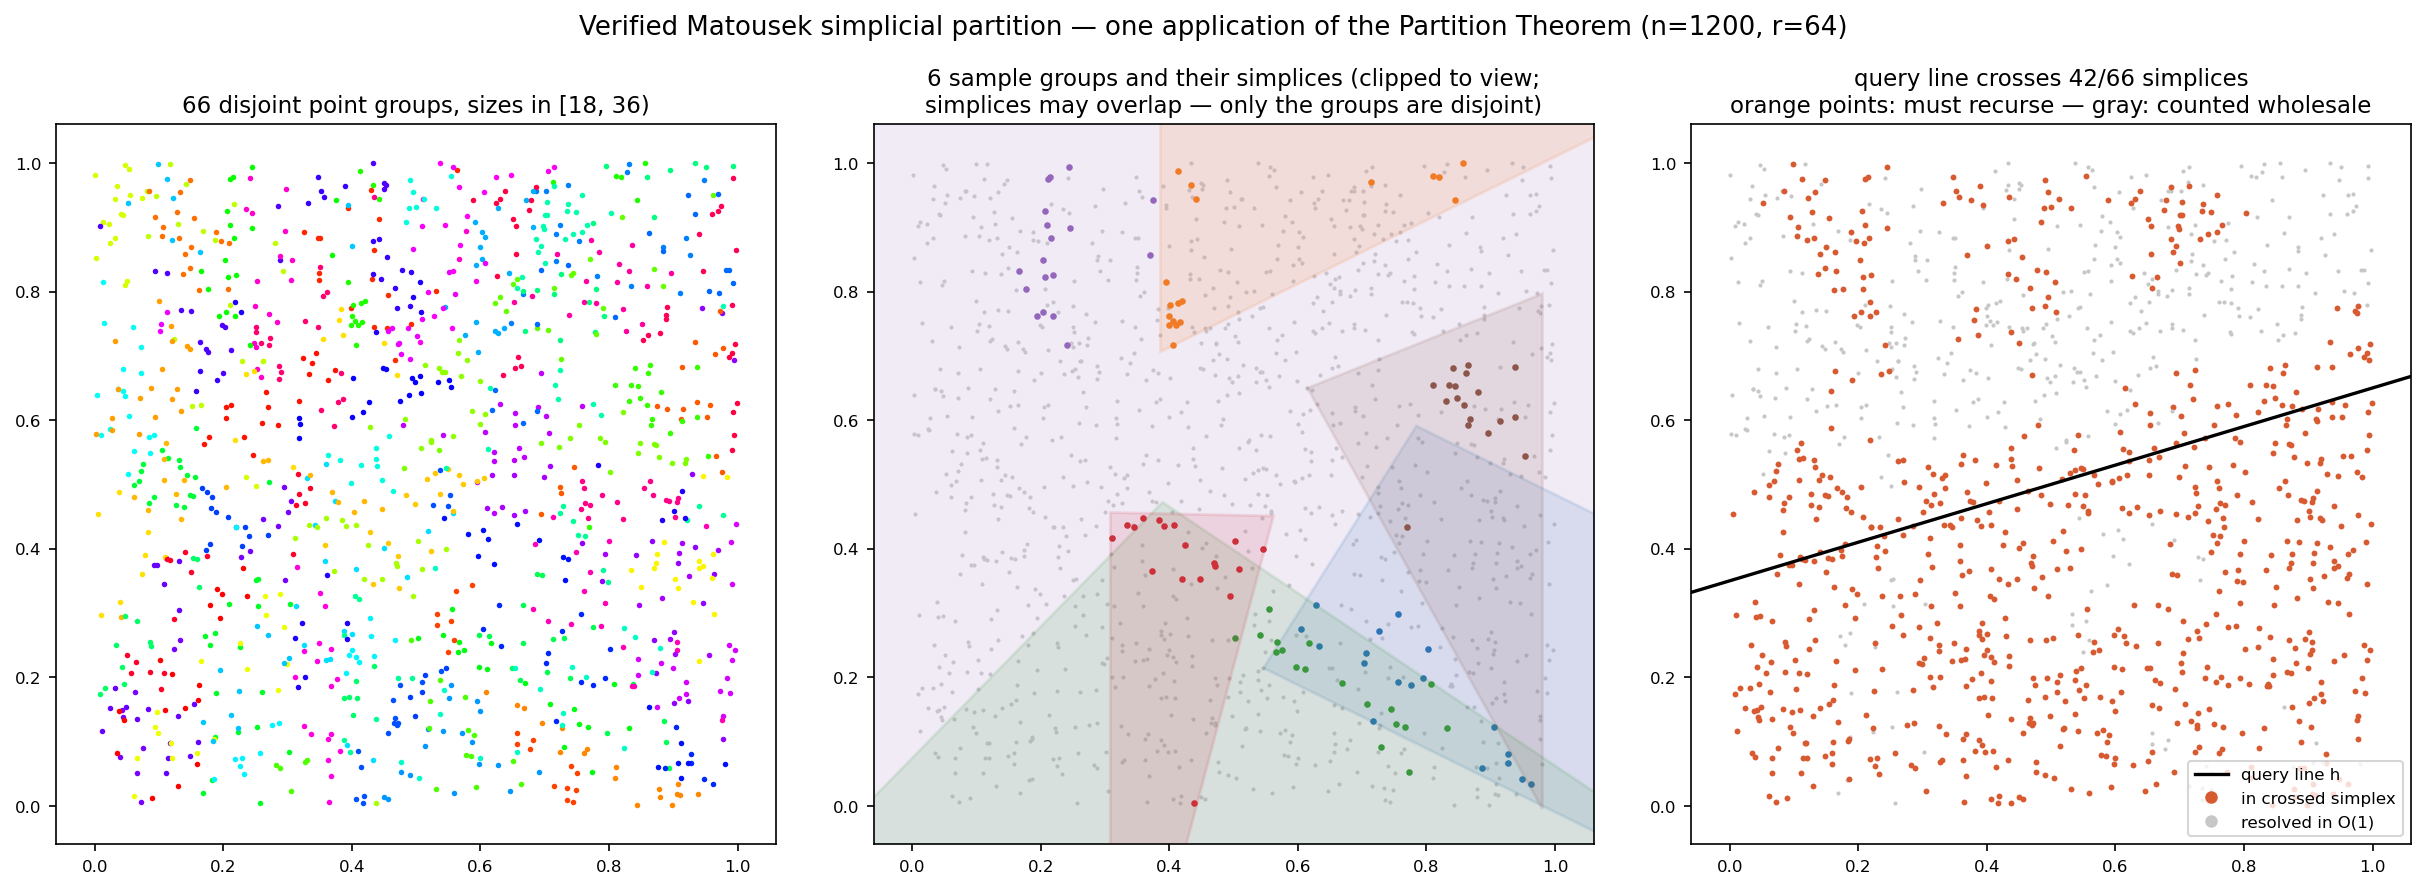
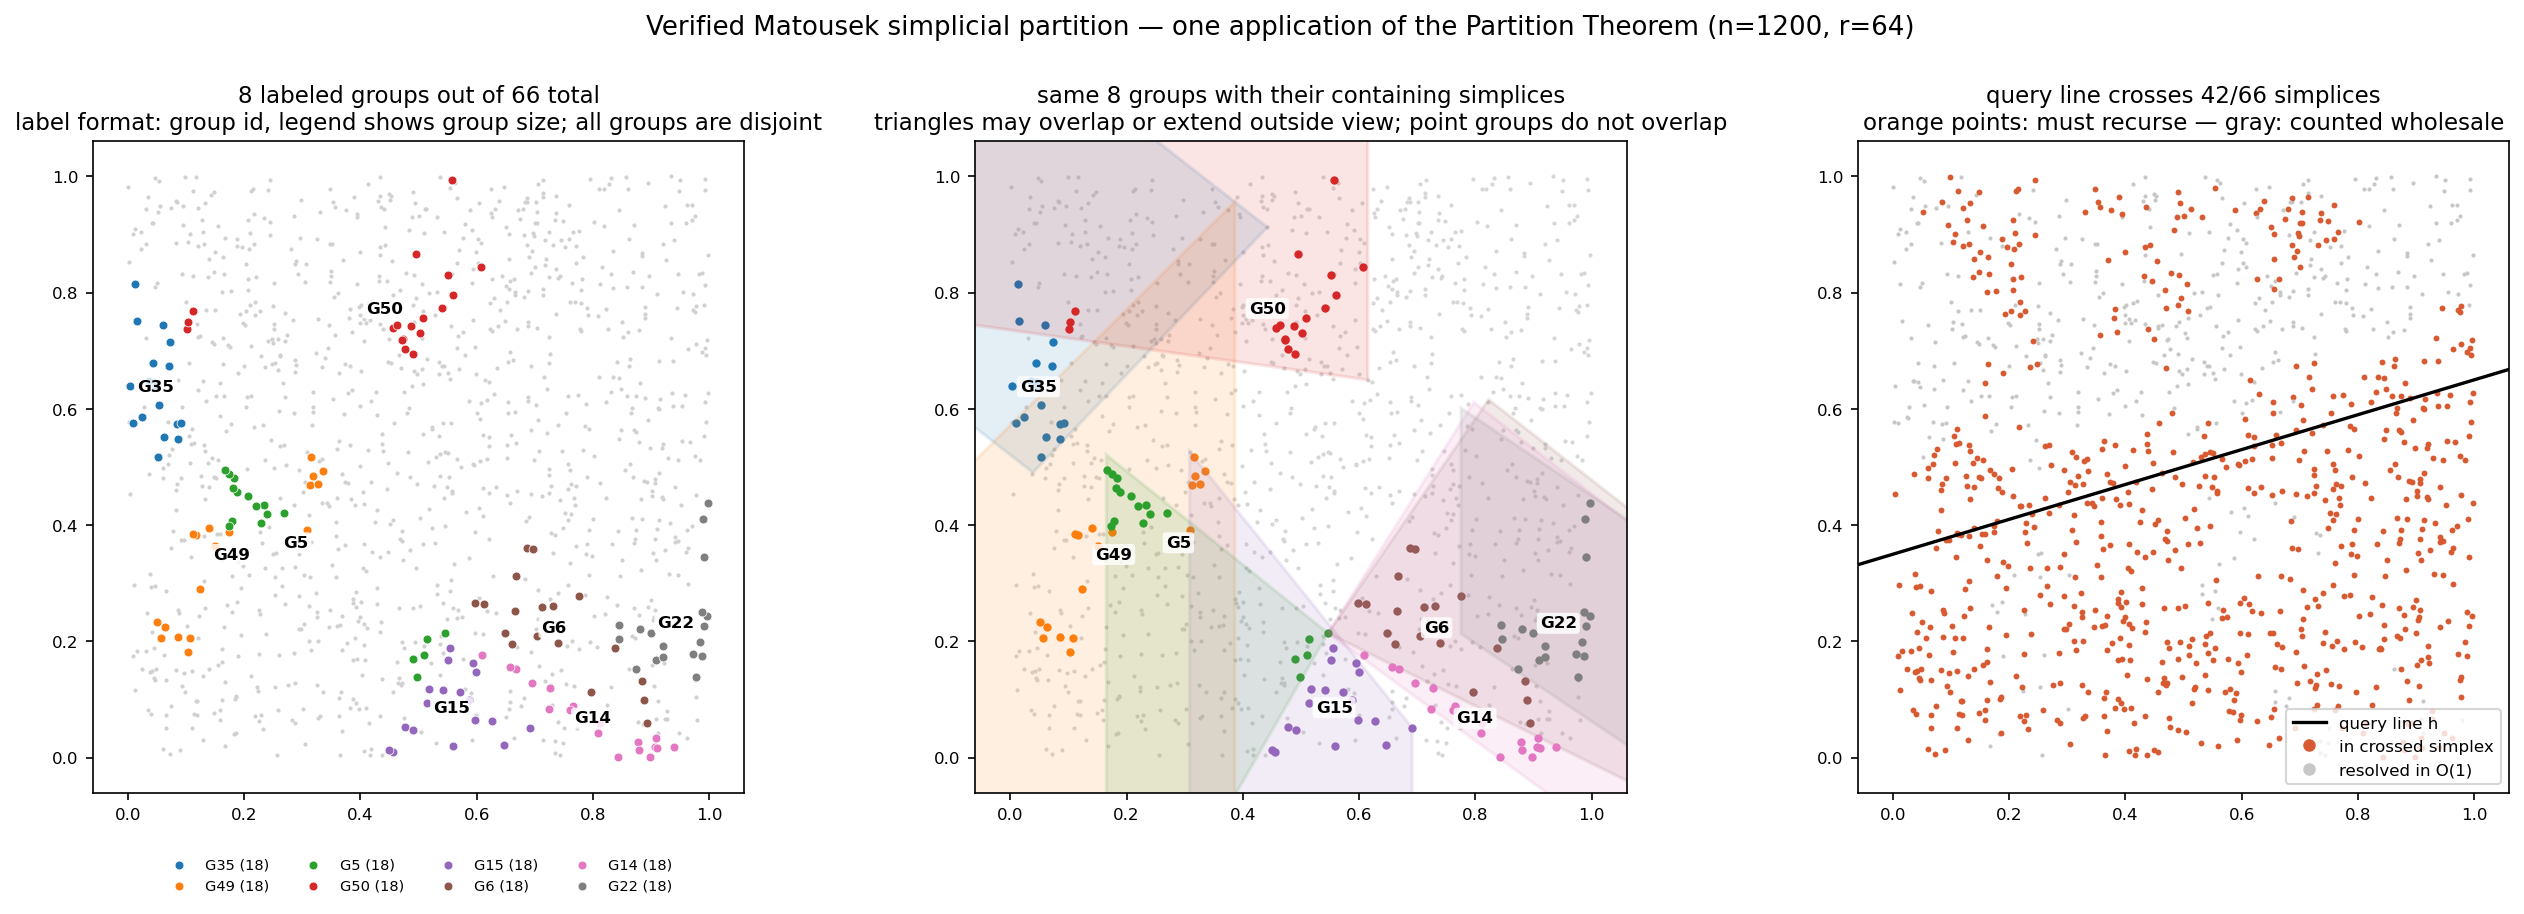
Clarify partition group visualization

diff --git a/src/visualize_matousek.py b/src/visualize_matousek.py
@@ -5,8 +5,8 @@ Reproduces the demo setting: n = 1200 uniform points, r = 64, s = 18
 -> 66 groups with sizes in [18, 36).
 
 Panels:
-  1. all point groups, colored by group membership;
-  2. a few sample groups with their simplices (drawing all 66 is unreadable
+  1. a labeled subset of groups, with all other points muted;
+  2. the same labeled groups with their simplices (drawing all 66 is unreadable
      because the construction's triangles legitimately extend far beyond
      the data and overlap — only the point groups are disjoint);
   3. a query line: points whose simplex the line crosses (must recurse)
@@ -31,6 +31,21 @@ from matplotlib.patches import Polygon as MplPolygon
 from matousek_partition_tree.core import line_crosses_tri, simplicial_partition
 
 
+def centroid(group):
+    return (
+        sum(float(p[0]) for p in group) / len(group),
+        sum(float(p[1]) for p in group) / len(group),
+    )
+
+
+def choose_visible_groups(part, count=8):
+    """Pick groups spread across the x-order so the labels are readable."""
+    ordered = sorted(range(len(part)), key=lambda k: centroid(part[k][0])[0])
+    if count >= len(ordered):
+        return ordered
+    return [ordered[round(i * (len(ordered) - 1) / (count - 1))] for i in range(count)]
+
+
 def main() -> None:
     n = int(sys.argv[1]) if len(sys.argv) > 1 else 1200
     seed = int(sys.argv[2]) if len(sys.argv) > 2 else 42
@@ -47,46 +62,82 @@ def main() -> None:
         f"n={n}, r={R}, s={s}: {len(part)} groups, sizes {sizes[0]}..{sizes[-1]}, K_Q={stats.K_Q}"
     )
 
-    fig, (ax1, ax2, ax3) = plt.subplots(1, 3, figsize=(16.5, 5.8), dpi=150)
+    fig, (ax1, ax2, ax3) = plt.subplots(1, 3, figsize=(17.8, 5.9), dpi=150)
     for ax in (ax1, ax2, ax3):
         ax.set_xlim(-0.06, 1.06)
         ax.set_ylim(-0.06, 1.06)
         ax.set_aspect("equal")
         ax.tick_params(labelsize=8)
 
-    # panel 1: every group in its own color
-    cmap = plt.get_cmap("hsv")
-    order = rng.sample(range(len(part)), len(part))
-    for k, (group, _) in enumerate(part):
-        col = cmap(order[k] / len(part))
-        ax1.scatter(
-            [float(p[0]) for p in group], [float(p[1]) for p in group], s=7, color=col, linewidths=0
-        )
-    ax1.set_title(f"{len(part)} disjoint point groups, sizes in [{s}, {2 * s})", fontsize=11)
-
-    # panel 2: a few sample groups with their simplices
-    show = rng.sample(range(len(part)), 6)
+    # panel 1: selected labeled groups, not 66 indistinguishable colors
+    show = choose_visible_groups(part, 8)
     sample_cmap = plt.get_cmap("tab10")
-    ax2.scatter(
+    ax1.scatter(
         [float(p[0]) for p in pts], [float(p[1]) for p in pts], s=4, color="0.82", linewidths=0
+    )
+    for j, k in enumerate(show):
+        group, _tri = part[k]
+        col = sample_cmap(j)
+        cx, cy = centroid(group)
+        ax1.scatter(
+            [float(p[0]) for p in group],
+            [float(p[1]) for p in group],
+            s=18,
+            color=col,
+            edgecolors="white",
+            linewidths=0.35,
+            label=f"G{k} ({len(group)})",
+        )
+        ax1.text(
+            cx,
+            cy,
+            f"G{k}",
+            fontsize=8,
+            weight="bold",
+            color="black",
+            ha="center",
+            va="center",
+            bbox={"boxstyle": "round,pad=0.18", "facecolor": "white", "alpha": 0.82, "lw": 0},
+        )
+    ax1.set_title(
+        f"8 labeled groups out of {len(part)} total\n"
+        f"label format: group id, legend shows group size; all groups are disjoint",
+        fontsize=11,
+    )
+    ax1.legend(loc="upper center", bbox_to_anchor=(0.5, -0.08), ncol=4, fontsize=7, frameon=False)
+
+    # panel 2: the same sample groups with their simplices
+    ax2.scatter(
+        [float(p[0]) for p in pts], [float(p[1]) for p in pts], s=4, color="0.84", linewidths=0
     )
     for j, k in enumerate(show):
         group, tri = part[k]
         col = sample_cmap(j)
         tri_f = [(float(v[0]), float(v[1])) for v in tri]
         ax2.add_patch(
-            MplPolygon(tri_f, closed=True, facecolor=col, alpha=0.13, edgecolor=col, linewidth=1.4)
+            MplPolygon(tri_f, closed=True, facecolor=col, alpha=0.12, edgecolor=col, linewidth=1.6)
         )
         ax2.scatter(
             [float(p[0]) for p in group],
             [float(p[1]) for p in group],
-            s=10,
-            color=col,
+            s=16,
             linewidths=0,
+            color=col,
+        )
+        cx, cy = centroid(group)
+        ax2.text(
+            cx,
+            cy,
+            f"G{k}",
+            fontsize=8,
+            weight="bold",
+            ha="center",
+            va="center",
+            bbox={"boxstyle": "round,pad=0.18", "facecolor": "white", "alpha": 0.82, "lw": 0},
         )
     ax2.set_title(
-        "6 sample groups and their simplices (clipped to view;\n"
-        "simplices may overlap — only the groups are disjoint)",
+        "same 8 groups with their containing simplices\n"
+        "triangles may overlap or extend outside view; point groups do not overlap",
         fontsize=11,
     )
 

diff --git a/README.md b/README.md
@@ -13,9 +13,10 @@ explain why theory-optimal never shipped.
 ![One application of the Partition Theorem](assets/partition_tree_example.png)
 
 *n = 1200 points, r = 64: the construction produces 66 disjoint point groups
-of sizes in [18, 36) (left), each contained in a — possibly overlapping —
-triangle (middle). A halfplane query only recurses into the simplices its
-boundary line crosses; everything else is counted wholesale in $`O(1)`$ (right).*
+of sizes in [18, 36). The left panel labels 8 representative groups, the
+middle panel shows the same groups inside their containing — possibly
+overlapping — simplices, and the right panel shows which groups a halfplane
+query must recurse into versus count wholesale in $`O(1)`$.*
 
 ## The headline result
 